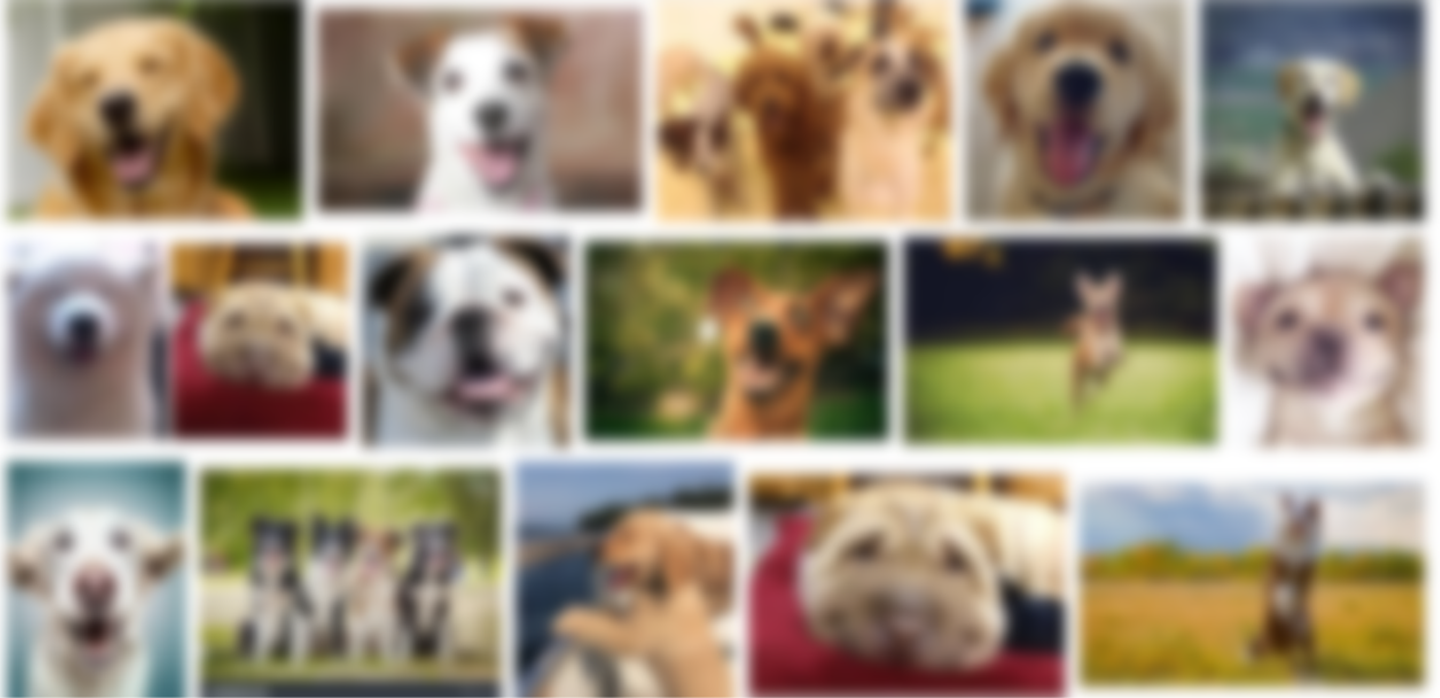
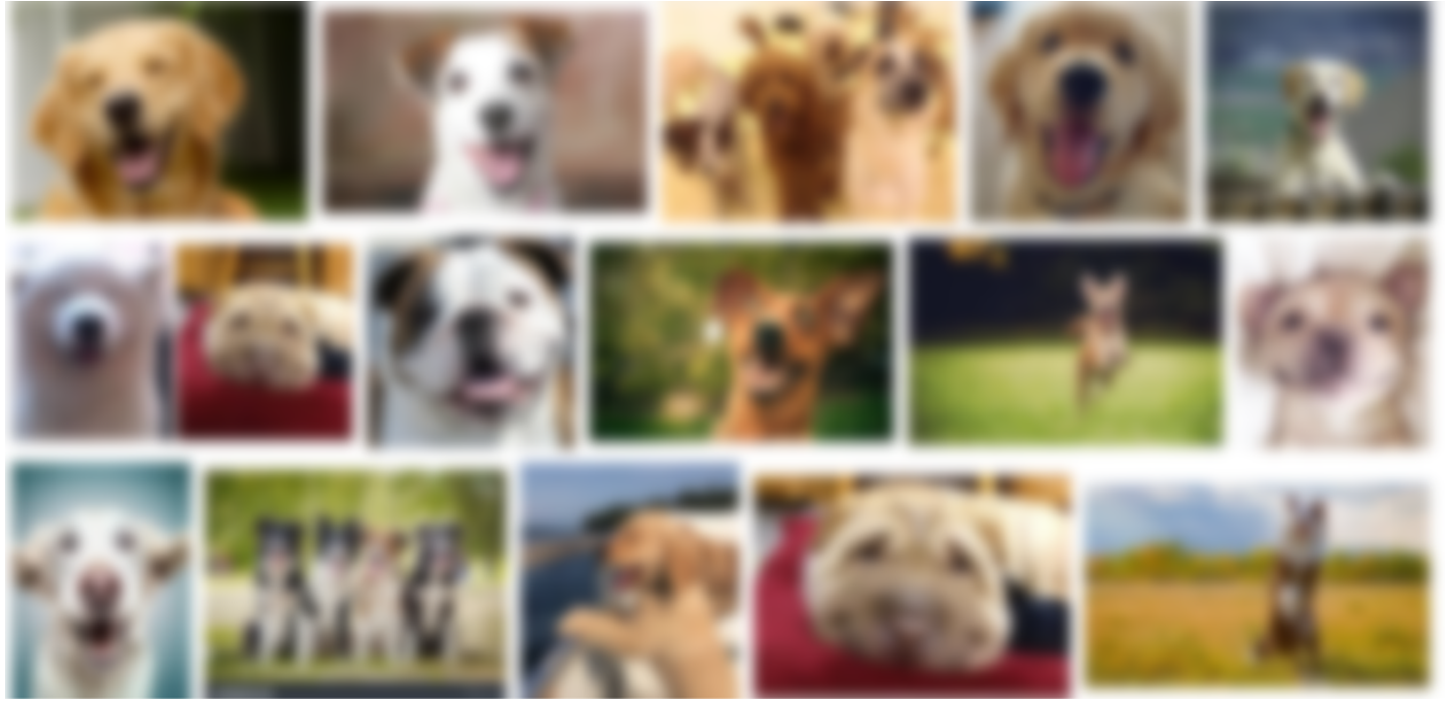
bug fixes

diff --git a/app/pages/home/_home-style.scss b/app/pages/home/_home-style.scss
@@ -33,12 +33,12 @@
 
 #home-dogs{
   background: url(/static/dogsBlur1.png) repeat fixed center;
-  background-position: 0px 97px;
+  background-position: 0px 98px;
   color: white;
 
   .logo-huge {
     display: flex;
-    height: 700px;
+    //height: 700px;
     img {
       width: 500px;
       margin: auto;
@@ -125,6 +125,7 @@
     }
     p {
       text-align: center;
+      padding: 0 100px;
     }
   }
   .circular {
@@ -153,6 +154,22 @@
     }
   }
   @media screen and (max-device-width: $screen-mobile-max) {
+    background: url(/static/mobileFullHome1.jpg) repeat fixed;
+    background-position: 0px 111px;
+    background-size: contain;
+    .circular {
+      width: 350px;
+      height: 350px;
+      border: 10px solid white;
+      .motivation-icon {
+        width: 270px;
+        height: 270px;
+      }
+      .earn-money {
+        width: 280px;
+        height: 280px;
+      }
+    }
     .btn  {
       height: 120px;
       line-height: 120px;
@@ -167,14 +184,20 @@
     }
     h3 {
       font-size: 6.28rem;
+      font-weight: 500;
     }
     p {
       font-size: 3rem;
     }
    .home-description {
+     border-bottom: 15px solid white;
+     border-top: 15px solid white;
+     h4 {
+        margin: 65px 0;
+     }
      p {
        font-size: 3rem;
-       padding: 0 40px 0 40px;
+       padding: 0 80px;
      }
      figure {
       padding-right: 25px;
@@ -187,11 +210,13 @@
    .logo-huge {
     height: 1000px;
     img {
-      width: 700px;
+      width: 800px;
+      height: 235px;      
     }
    }
    .options {
       .option {
+        border: 15px solid white;
          height: 500px;
       }
    }

diff --git a/app/pages/home/home.component.ts b/app/pages/home/home.component.ts
@@ -13,10 +13,11 @@ import {UserService} from '../../common/services/user.service';
 export class homeComponent {
   public scrollnormalize: number;
   public newUser: boolean;
+
   constructor (@Inject(DOCUMENT) private document:  Document, public scrollService : ScrollService, public activatedRoute: ActivatedRoute, public location: Location, public userService: UserService) {}
   @HostListener('window:scroll', ['$event'])
   onWindowScroll() {
-    const scrollMax: number = 300;
+    const scrollMax: number = (window.innerHeight - (window.innerHeight / 8)) / 2;
     const scrollTop = this.document.body.scrollTop;
     this.scrollnormalize = (scrollMax - scrollTop) / scrollMax;
     this.scrollService.scrollOpacity = 1.2 - this.scrollnormalize;
@@ -33,5 +34,7 @@ export class homeComponent {
       }, 6000);
     }
   }
-
+  public getWindowHeight(): string {
+    return window.innerHeight +'px';
+  }
 };

diff --git a/app/pages/home/home.template.html b/app/pages/home/home.template.html
@@ -1,5 +1,5 @@
 <main id="home-dogs" [ngClass]="{'blur-new-user': newUser}" >
-  <div class="row logo-huge">
+  <div class="row logo-huge" [ngStyle]="{'height': getWindowHeight()}">
     <img src="static/logo-huge.png" alt="Lost Dog Logo" [ngStyle]="{'opacity': scrollnormalize}" *ngIf="!newUser" class="blur-appear">
   </div>
   <div  class="row home-description">

diff --git a/app/pages/create-account/account.component.ts b/app/pages/create-account/account.component.ts
@@ -72,6 +72,7 @@ export class accountComponent {
       this.user.adress.country.value = input.val();
       this.user.adress.country.valid = true;
     });
+    this.user.adress.country.value = undefined;
   }
 
   public createUser (form: any): void {
